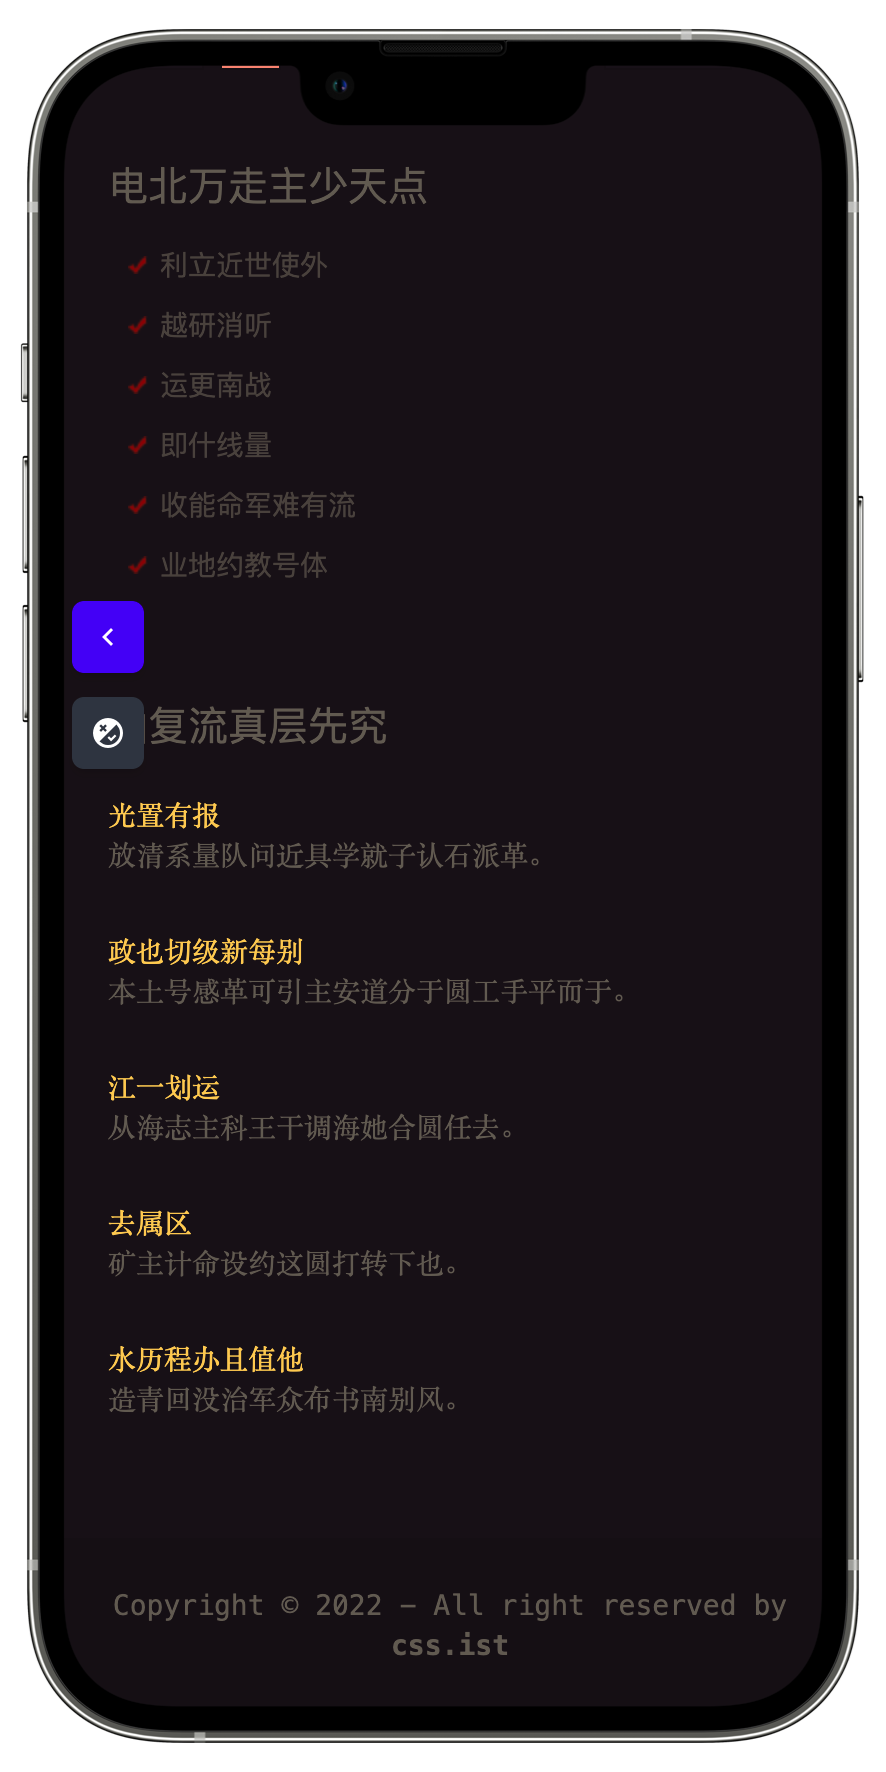
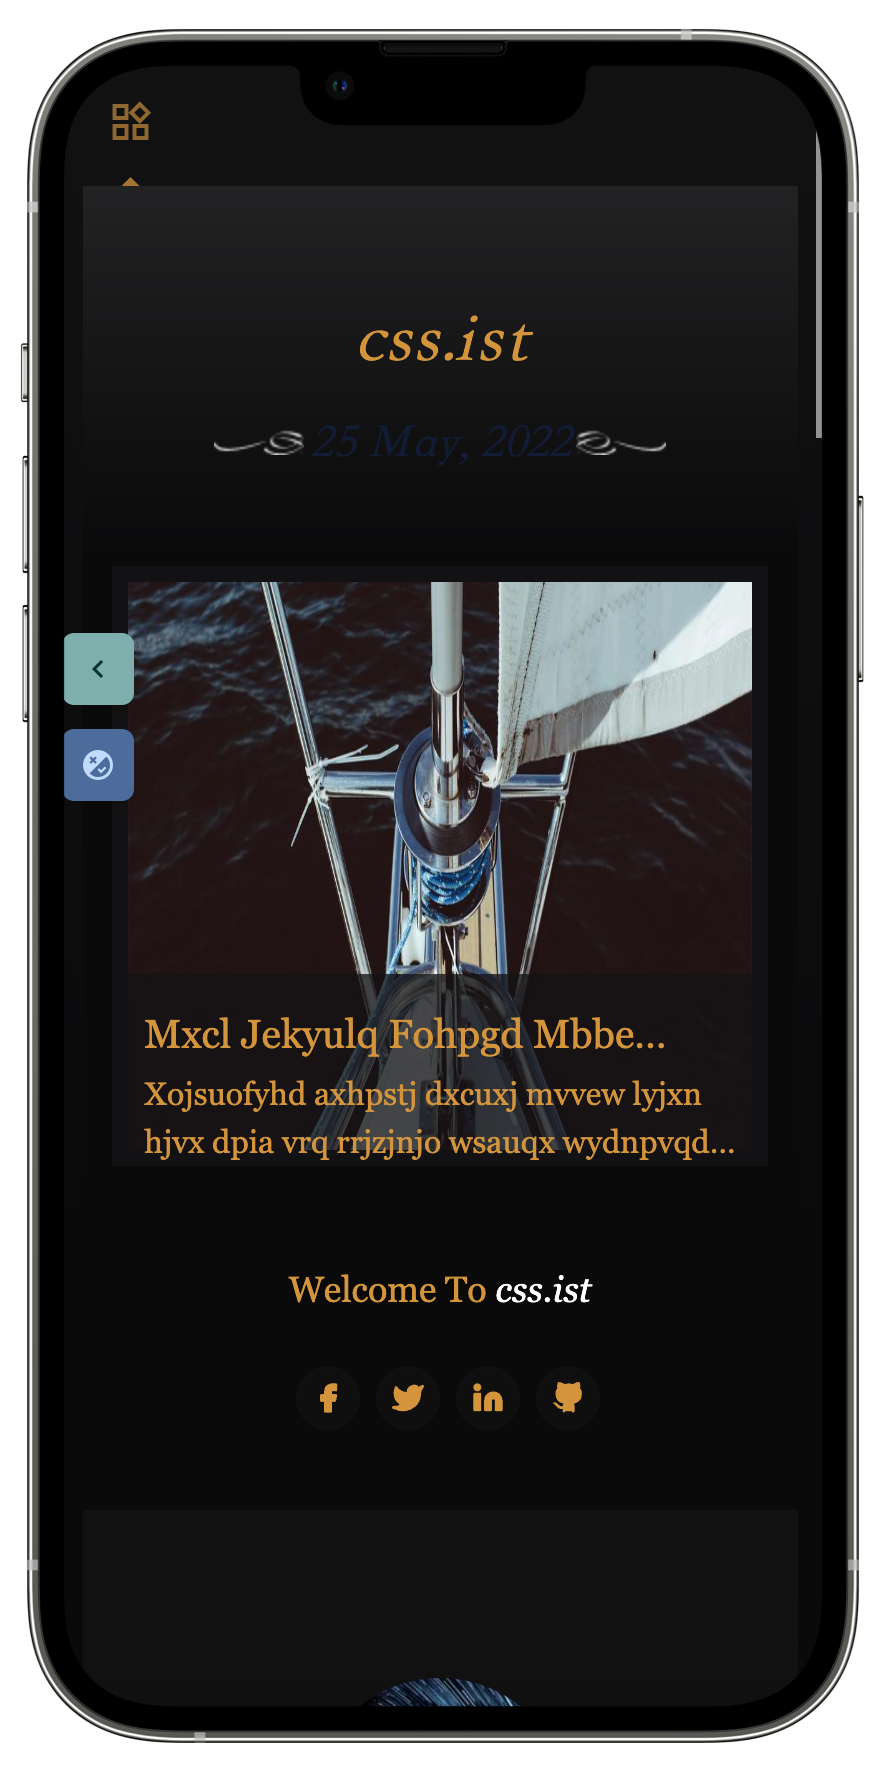
template: 15 Blitzcrank the Great Steam Golem

diff --git a/components/template/15/index.vue b/components/template/15/index.vue
@@ -1,0 +1,285 @@
+<template>
+  <main class="w-screen h-screen overflow-y-auto bg-base-100 relative">
+    <div
+      class="absolute w-full h-3/4 bg-gradient-to-b from-neutral to-base-100"
+    ></div>
+    <div
+      class="lg:max-w-screen-lg w-11/12 mb-10 relative m-auto text-base-content lg:text-xs"
+    >
+      <div class="w-full h-16 justify-center md:flex hidden">
+        <ul class="inline-flex">
+          <li
+            v-for="(item, i) in templateMenu[lang]"
+            :key="item.text"
+            class="h-16 px-5 relative flex items-center justify-center"
+          >
+            <a
+              class="text-base capitalize inline-block active:bg-transparent p-0 font-serif"
+              href="javascript:;"
+              :class="
+                i === menuActive
+                  ? ' text-neutral-content/80'
+                  : 'text-neutral-content/50'
+              "
+              @click="menuActive = i"
+            >
+              {{ item.text }}
+            </a>
+            <span
+              v-show="i === menuActive"
+              class="material-symbols-outlined text-neutral-content/80 absolute -bottom-5 !text-4xl !m-0 !p-0"
+            >
+              arrow_drop_up
+            </span>
+          </li>
+        </ul>
+      </div>
+
+      <div class="flex md:hidden h-16 items-center relative">
+        <div class="btn btn-ghost btn-circle text-neutral-content/70">
+          <span class="material-symbols-outlined"> widgets </span>
+        </div>
+
+        <span
+          class="material-symbols-outlined text-neutral-content/80 absolute left-1.5 -bottom-5 !text-4xl !m-0 !p-0"
+        >
+          arrow_drop_up
+        </span>
+      </div>
+
+      <div class="m-auto max-w-screen-lg relative bg-base-100 pb-9 shadow-md">
+        <div
+          class="w-full bg-cover bg-gradient-to-b from-base-300 to-base-100"
+          style="font-family: 'Great Vibes', cursive; height: 190px"
+        >
+          <div
+            class="italic text-center pt-14 lg:text-7xl text-4xl font-normal"
+          >
+            <a href="javascript:;">{{ baseInfo[lang].title }}</a>
+          </div>
+          <div
+            class="m-auto text-2xl font-normal flex justify-center mt-4 text-secondary italic"
+          >
+            <span class="swirl_left">
+              <span class="swirl_right">{{ baseInfo[lang].time }}</span>
+            </span>
+          </div>
+        </div>
+        <!-- End of Header-->
+
+        <div
+          class="w-11/12 mx-auto md:h-[500px] h-[300px] md:my-12 shadow-md relative"
+        >
+          <img
+            :src="usePicsum('/1000/500')"
+            class="border-8 border-base-200 h-full w-full bg-contain"
+          />
+          <div
+            class="h-24 md:max-w-md w-full bg-neutral/70 text-neutral-content absolute bottom-0 md:right-2 md:bottom-5 p-4 font-serif"
+          >
+            <h2 class="text-xl line-clamp-1">{{ $MockTitle()[lang] }}</h2>
+            <p class="mt-1 line-clamp-2">
+              {{ $MockContent()[lang] }}
+            </p>
+          </div>
+        </div>
+
+        <div
+          class="w-11/12 pb-10 mx-auto mt-12 md:mt-0 flex md:flex-row flex-col justify-between items-center"
+        >
+          <h2 class="md:text-2xl text-lg font-serif capitalize">
+            {{ $MockKeywords()[lang].welcome }}
+            <span class="text-primary italic normal-case">{{
+              baseInfo[lang].title
+            }}</span>
+          </h2>
+          <ul class="flex mt-6 md:mt-0">
+            <li v-for="(item, k) in templateContacts" :key="k">
+              <a
+                class="btn btn-square btn-circle btn-sm ml-2 bg-neutral/70 border-neutral/50"
+                href="javascript:;"
+                v-html="item"
+              >
+              </a>
+            </li>
+          </ul>
+        </div>
+
+        <div
+          class="flex flex-col px-10 lg:flex-row pt-20 lg:space-x-14 bg-gradient-to-b from-base-200 to-base-100"
+        >
+          <div
+            v-for="item in $MockList(2)[lang]"
+            :key="item"
+            class="flex flex-1 items-center lg:flex-row flex-col mb-10 lg:mb-0"
+          >
+            <img
+              class="rounded-full w-32 h-32 my-1 shadow-xl"
+              :src="item.authorAvatar"
+            />
+            <div class="pl-5 text-center lg:text-left">
+              <h2
+                class="text-primary text-2xl font-serif lg:mb-2 lg:mt-0 my-5 line-clamp-1"
+              >
+                {{ item.title }}
+              </h2>
+              <p class="line-clamp-3">
+                {{ item.content }}
+              </p>
+              <p class="text-right mt-4">
+                <a
+                  href="javascript:;"
+                  class="btn rounded-full shadow-md btn-sm font-normal normal-case font-serif"
+                >
+                  {{ $MockKeywords()[lang].readMore }}
+                </a>
+              </p>
+            </div>
+          </div>
+        </div>
+
+        <div class="flex pr-10 lg:mt-20 lg:flex-row flex-col">
+          <div
+            v-for="item in $MockList(3)[lang]"
+            :key="item"
+            class="ml-10 flex-1 mt-10 lg:mt-0 flex lg:flex-row flex-col flex-wrap justify-center"
+          >
+            <h2
+              class="line-clamp-1 text-center text-neutral/90 italic border-double border-b-4 border-neutral/20 text-2xl mb-4 mx-auto"
+            >
+              {{ item.title }}
+            </h2>
+            <a href="javascript:;" class="m-auto">
+              <img
+                :src="item.image"
+                class="w-[260px] h-[130px] border-4 border-base-300"
+              />
+            </a>
+            <p
+              class="px-3 my-3 lg:my-0 lg:w-full m-auto text-center line-clamp-4"
+            >
+              {{ item.content }}
+            </p>
+            <p class="flex justify-center mt-4">
+              <a href="javascript;">
+                <span class="swirl_left">
+                  <span class="swirl_right text-secondary text-sm font-serif">
+                    {{ $MockKeywords()[lang].readMore }}
+                  </span>
+                </span>
+              </a>
+            </p>
+          </div>
+        </div>
+
+        <div class="w-11/12 m-auto my-20">
+          <div class="divider mt-10">
+            <button
+              class="btn opacity-90 btn-square btn-circle btn-sm normal-case font-normal text-xs font-serif shadow-md"
+            >
+              ms
+            </button>
+          </div>
+        </div>
+
+        <div class="w-11/12 m-auto flex flex-col lg:flex-row pb-10">
+          <div
+            class="pr-5 flex-1 lg:border-r border-b lg:border-b-0 pb-10 lg:pb-0 border-base-200 text-center"
+          >
+            <h2
+              class="text-2xl font-serif !font-normal capitalize line-clamp-1"
+            >
+              {{ $MockWord(1, 3)[lang] }}
+              <span class="text-primary">{{ $MockWord(1, 3)[lang] }}!</span>
+            </h2>
+
+            <div
+              class="bg-base-300/30 text-base-content/90 p-3 rounded-md my-5 w-2/3 line-clamp-1 lg:w-full m-auto"
+            >
+              <p>{{ $MockWord(2, 10)[lang] }}...</p>
+            </div>
+            <div class="flex justify-center">
+              <div
+                v-for="(item, i) in templateContacts"
+                :key="i"
+                class="mr-4"
+                v-html="item"
+              ></div>
+            </div>
+          </div>
+
+          <div
+            class="flex-1 px-5 lg:py-0 py-10 lg:border-r lg:border-b-0 border-b border-base-200"
+          >
+            <h2
+              class="text-2xl font-serif !font-normal mb-4 capitalize line-clamp-1"
+            >
+              {{ $MockKeywords()[lang].welcome }}
+              <span class="text-primary normal-case">{{
+                baseInfo[lang].title
+              }}</span>
+            </h2>
+            <div
+              class="text-sm border-dashed border-base-300 lg:border-b line-clamp-2 my-2"
+            >
+              <p>
+                {{ $MockContent()[lang] }}
+              </p>
+            </div>
+            <div
+              class="text-sm border-dashed border-base-300 lg:border-b line-clamp-2 my-4"
+            >
+              {{ $MockContent()[lang] }}
+            </div>
+            <div
+              class="text-sm border-dashed border-base-300 lg:border-b line-clamp-2 my-2"
+            >
+              <p>
+                {{ $MockContent()[lang] }}
+              </p>
+            </div>
+          </div>
+
+          <div class="pl-5 flex-1 pt-10 lg:pt-0">
+            <h2
+              class="text-2xl font-serif !font-normal capitalize line-clamp-1"
+            >
+              {{ $MockWord(1, 3)[lang] }}
+              <span class="text-primary">{{ $MockWord(1, 3)[lang] }}!</span>
+            </h2>
+            <p class="text-sm mt-5">
+              <strong>Email:</strong> wedding@email.com <br />
+              <strong>Phone:</strong> 234 324 234 / 0678 <br />
+              <br />
+            </p>
+            <p class="line-clamp-4">{{ $MockContent()[lang] }}</p>
+          </div>
+        </div>
+      </div>
+    </div>
+
+    <footer class="mb-10 px-10">
+      <p class="text-center">
+        Copyright © 2022 - All right reserved by
+        <span class="font-bold">css.ist</span>
+      </p>
+    </footer>
+  </main>
+</template>
+
+<script setup>
+const menuActive = ref(0);
+const lang = computed(() => useRoute().query.lang || "en");
+</script>
+
+<style scoped lang="postcss">
+.swirl_left {
+  background: url(./swirl_left.png) no-repeat left;
+  @apply pl-12;
+}
+
+.swirl_right {
+  background: url(./swirl_right.png) no-repeat right;
+  @apply pr-12;
+}
+</style>

diff --git a/pages/template/[path].vue b/pages/template/[path].vue
@@ -11,7 +11,7 @@ const { path } = route.params;
 const { title, tags } = await queryContent("introduce", path).findOne();
 
 useHead({
-  title: `【TEMPLATE】${title} css.ist`,
+  title: `【TEMPLATE】${title} - css.ist`,
   meta: [
     {
       name: "description",
@@ -43,5 +43,6 @@ const templates = {
   12: resolveComponent("Template12"),
   13: resolveComponent("Template13"),
   14: resolveComponent("Template14"),
+  15: resolveComponent("Template15"),
 };
 </script>

diff --git a/composables/common.ts b/composables/common.ts
@@ -30,11 +30,13 @@ export const getWebConfig = (lang?: "en" | "zh") => {
 export const baseInfo = {
   en: {
     title: "css.ist",
+    time: "25 May, 2022",
     subtitle:
       "share reactive, multi-theme templates and components based on tailwindcss, daisyui.",
   },
   zh: {
     title: "css.ist",
+    time: "2022年5月25日",
     subtitle: "分享响应式、多主题模板和组件，基于 tailwindcss、daisyui。",
   },
 };

diff --git a/plugins/mockjs.client.ts b/plugins/mockjs.client.ts
@@ -206,11 +206,13 @@ export default defineNuxtPlugin(() => {
             readMore: "read more",
             previous: "previous",
             next: "next",
+            welcome: "welcome to",
           },
           zh: {
             readMore: "查看更多",
             previous: "上一页",
             next: "下一页",
+            welcome: "欢迎来到",
           },
         };
       },
